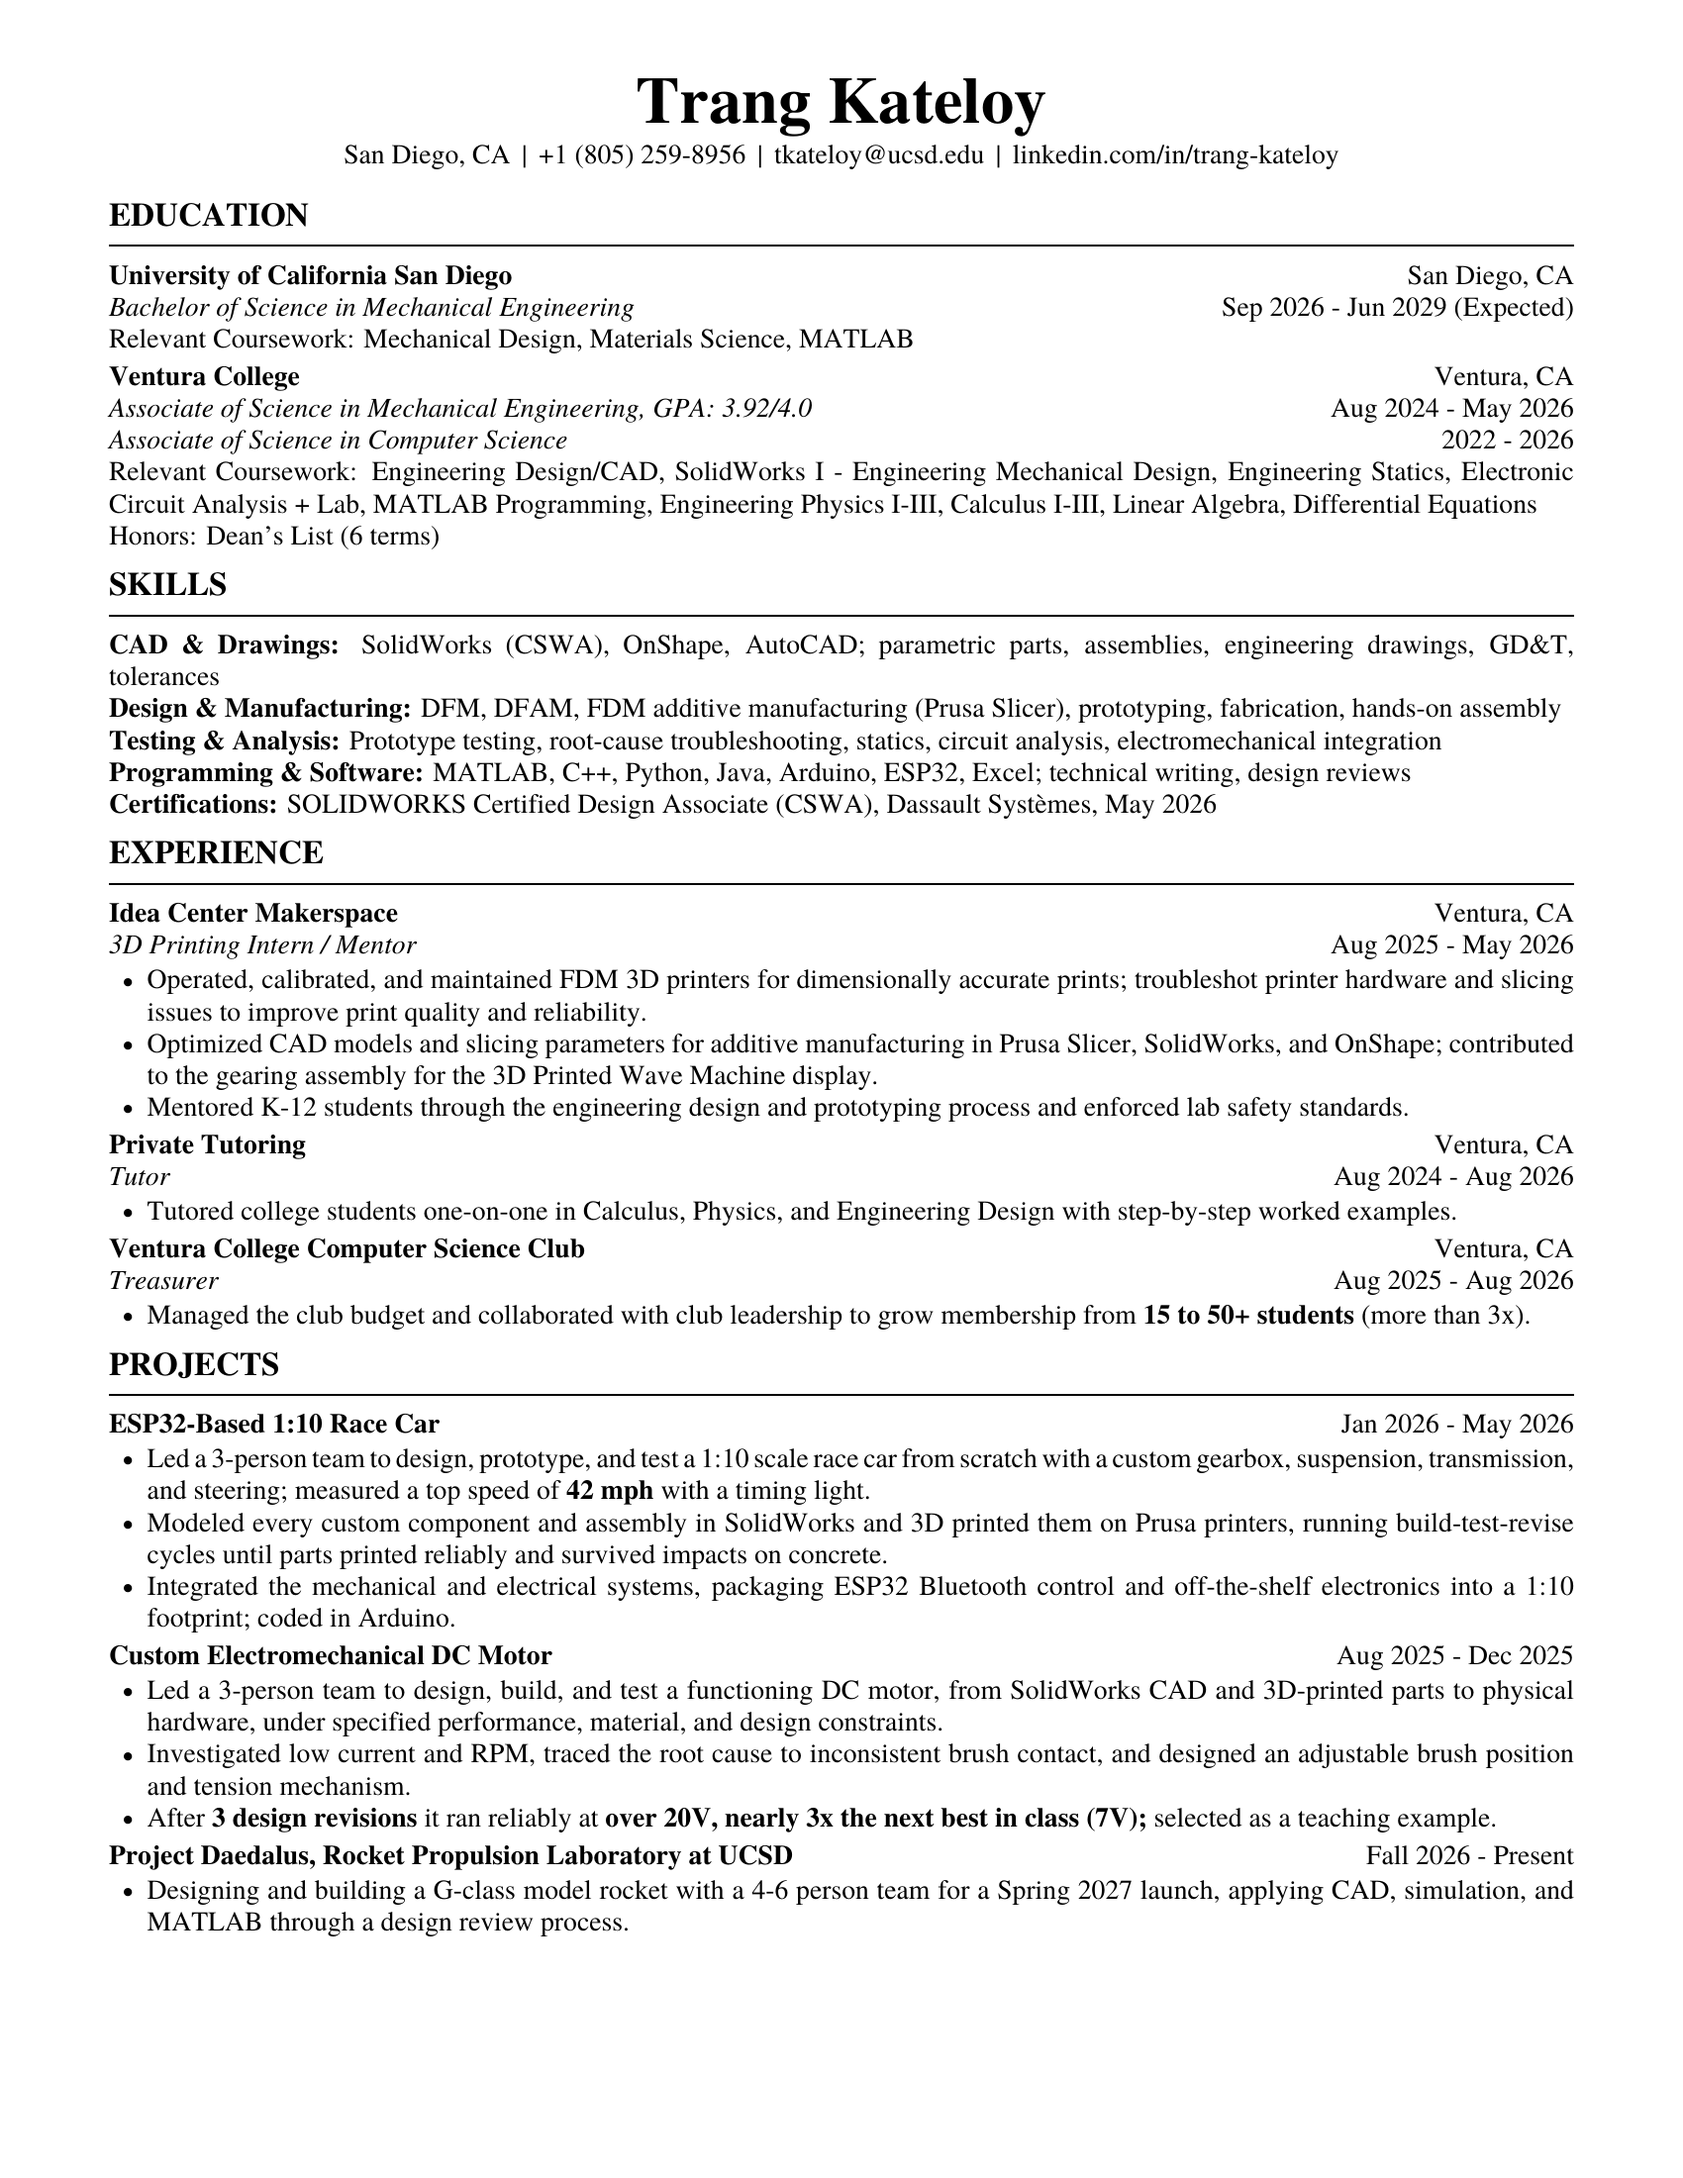
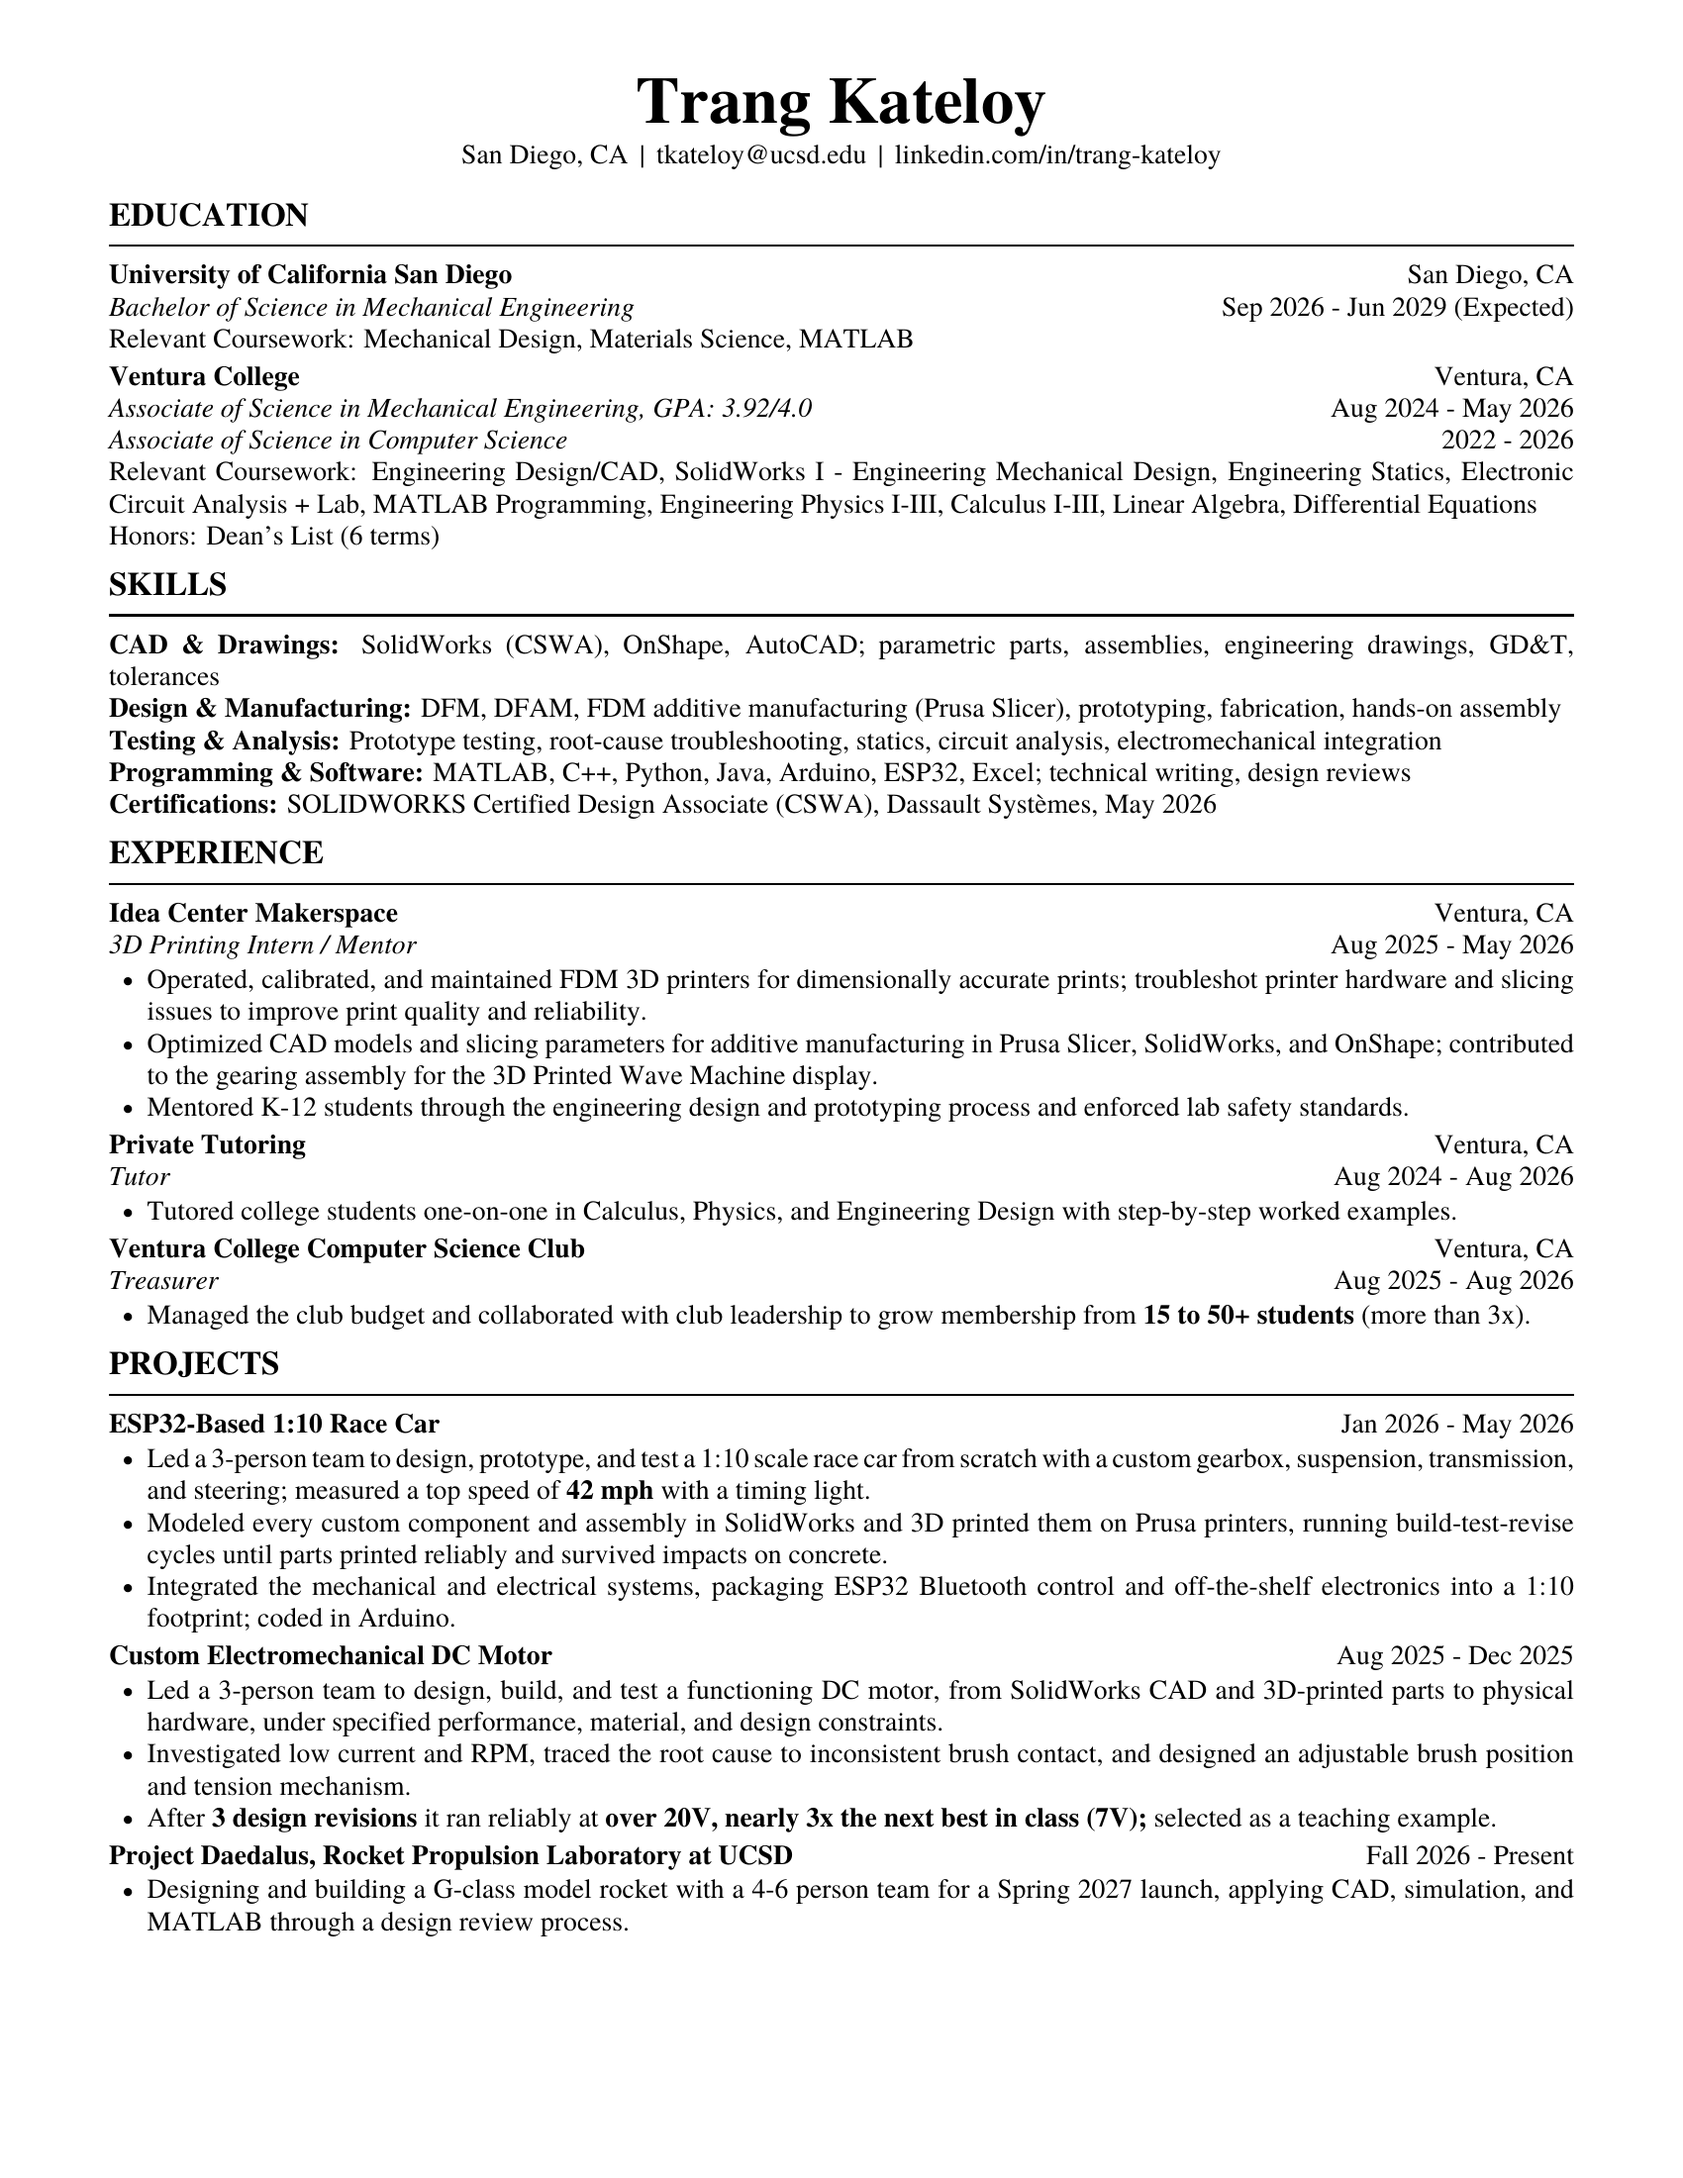
Restyle Projects page, add headshot, update resume, rename Idea Center title
Claude-Session: https://claude.ai/code/session_01QjktX3wbWP8uaMtqN2z6GR

Changed region(s): [[0.2494, 0.0618, 0.7794, 0.0927], [0.0935, 0.8655, 0.1247, 0.8964]]

diff --git a/_pages/portfolio.html b/_pages/portfolio.html
@@ -1,6 +1,6 @@
 ---
 layout: archive
-title: "Portfolio"
+title: "Projects"
 permalink: /portfolio/
 author_profile: true
 ---

diff --git a/_portfolio/1-race-car.md b/_portfolio/1-race-car.md
@@ -1,26 +1,33 @@
 ---
-title: "ESP32 1:10 Scale Bluetooth Race Car"
-excerpt: "Led a 3-person team to design a 3D-printed 1:10 race car from scratch with a custom gearbox, suspension, transmission and steering. Top speed: 42 mph.<br/><img src='/images/rc-car-cad.jpg' width='500'>"
+title: "ESP32 - 1:10 Scale Bluetooth Race Car"
+excerpt: "A 3D-printed 1:10 race car designed from scratch with a custom gearbox, suspension, transmission and steering. Top speed: 42 mph <br/> (Ventura College, Physics final project, Spring 2026)"
 collection: portfolio
+share: false
+comments: false
 ---
 
-**Jan 2026 – May 2026** · SolidWorks · Prusa FDM printing · ESP32 · Arduino
+I led a 3-person team that designed, prototyped and tested a 1:10 scale race car from scratch. The goal was a low-cost, easy-to-build Bluetooth RC chassis for hobbyists that met set material and performance limits. It reached a top speed of **42 mph**, measured with a timing light.
 
 ![Full race car assembly in SolidWorks](/images/rc-car-cad.jpg)
 
-## Goal
-Design a low-cost, easy-to-build 1:10 scale Bluetooth RC car chassis for hobbyists that meets set material and performance limits.
+Design
+======
+I modeled every custom part and assembly in SolidWorks, including the **gearbox, suspension, transmission and steering**. The parts were 3D printed on Prusa printers, and I used design-for-additive-manufacturing choices so they would print reliably and work with off-the-shelf parts.
 
-## Challenges
+![Gearbox section view](/images/rc-car-gearbox.jpg)
+
+Challenges
+======
 - Making the parts print reliably
 - Long-term durability
 - Compatibility with off-the-shelf parts
 
-## Solution & Results
-- Led a **3-person team** that designed the car from scratch, including a **custom gearbox, suspension, transmission and steering**
-- Modeled every custom part and assembly in SolidWorks and printed them on Prusa printers. We kept building, testing and revising until the parts **printed reliably and survived impacts on concrete**
-- Fit ESP32 Bluetooth control and off-the-shelf electronics into the 1:10 footprint, with the code written in Arduino
-- Measured a **top speed of 42 mph** with a timing light
-- Served as the live demo for my Physics final project. I've since refined it so it's more consistent and easier to build
+Build, Test, Revise
+======
+We repeated build-test-revise cycles until the parts **printed reliably and survived impacts on concrete**, with the suspension, transmission and steering still moving freely. I fit ESP32 Bluetooth control and off-the-shelf electronics into the 1:10 footprint, with the code written in Arduino.
 
-<img src="/images/rc-car-gearbox.jpg" alt="Gearbox section view" width="49%"> <img src="/images/rc-car-build.jpg" alt="Assembled car with electronics" width="49%">
+![Assembled car with electronics](/images/rc-car-build.jpg){: width="60%"}
+
+Results
+======
+The car served as the live demo for my Physics final project. Since then I've refined it so it's more consistent and easier to build.

diff --git a/_portfolio/2-dc-motor.md b/_portfolio/2-dc-motor.md
@@ -1,25 +1,27 @@
 ---
-title: "Custom Electromechanical DC Motor"
-excerpt: "Designed a DC motor from scratch in CAD. After 3 revisions it ran reliably at over 20 V, nearly 3× the next best in the class.<br/><img src='/images/dc-motor-build.jpg' width='300'>"
+title: "Electromechanical - Custom DC Motor"
+excerpt: "A DC motor designed in SolidWorks and built from 3D-printed parts. It ran reliably at over 20 V, nearly 3× the next best in the class <br/> (Ventura College, Fall 2025)"
 collection: portfolio
+share: false
+comments: false
 ---
 
-**Aug 2025 – Dec 2025** · SolidWorks · 3D printing · Root-cause troubleshooting
+I led a 3-person team that designed, built and tested a working DC motor, from SolidWorks CAD and 3D-printed parts to physical hardware. The goal was to show an understanding of the physics, prototyping and design workflow while meeting set performance, material and design limits.
 
-<img src="/images/dc-motor-build.jpg" alt="Built DC motor" width="45%">
+<img src="/images/dc-motor-cad-1.jpg" alt="Motor CAD" width="49%"> <img src="/images/dc-motor-cad-2.jpg" alt="Brush mount CAD" width="49%">
 
-## Goal
-Design and prototype a working DC motor from CAD models and easy-to-find materials, showing an understanding of the physics, prototyping and design workflow.
-
-## Challenges
+Challenges
+======
 - Designing the armature and commutator
 - Inconsistent brush contact limited current and RPM
 - Limits on which materials we could use
 
-## Solution & Results
-- Led a **3-person team** from SolidWorks CAD and 3D-printed parts to working hardware, within the required performance, material and design limits
-- Traced low current and RPM to **inconsistent brush contact**, then designed an **adjustable brush position and tension mechanism** that kept the brushes in steady contact with the commutator
-- After **3 design revisions**, it ran reliably at **over 20 V**, nearly **3× the next best in the class (7 V)**
-- Selected as a **teaching example** for future classes
+Finding the Problem
+======
+Early versions drew low current and spun slowly. I traced the root cause to **inconsistent brush contact** with the commutator. To fix it, I designed an **adjustable brush position and tension mechanism** that kept the brushes in steady contact, which allowed higher current and RPM.
 
-<img src="/images/dc-motor-cad-1.jpg" alt="Motor CAD" width="49%"> <img src="/images/dc-motor-cad-2.jpg" alt="Brush mount CAD" width="49%">
+![Built DC motor](/images/dc-motor-build.jpg){: width="50%"}
+
+Results
+======
+After **3 design revisions**, the motor ran reliably at **over 20 V**, nearly **3× the next best in the class (7 V)**. It was selected as a **teaching example** for future classes.

diff --git a/_portfolio/4-mae3-robot.md b/_portfolio/4-mae3-robot.md
@@ -1,19 +1,21 @@
 ---
-title: "Tennis Ball Robot (MAE 3, In Progress)"
-excerpt: "Team robot with a tilting truck-style bed that guides tennis balls into holes. I led the drive module analysis."
+title: "MAE 3 Class - Tennis Ball Robot"
+excerpt: "A team robot with a tilting truck-style bed that guides tennis balls into holes. I led the drive module analysis <br/> (UCSD MAE 3 Introduction to Engineering Graphics & Design, Fall 2026, in progress)"
 collection: portfolio
+share: false
+comments: false
 ---
 
-<!-- ![Robot](/images/robot.jpg) -->
+For UCSD's MAE 3 (Fall 2026), I'm on a three-person team designing a robot that delivers tennis balls into target holes.
 
-## Goal
-As part of a three-person team, design a robot that delivers tennis balls into target holes.
+Concept
+======
+Our robot has a truck-style bed that **raises, lowers and tilts** using a spring-assisted jack and a geared motor. It drives with differential steering.
 
-## Challenges
-_[Add, e.g. balancing drive speed against control]_
+My Role
+======
+I'm responsible for the **drive module analysis**, optimizing for the robot's speed.
 
-## Solution & Results
-- Team concept: a truck-style bed that **raises, lowers and tilts** using a spring-assisted jack and geared motor
-- Differential steering
-- **My role:** drive module analysis, optimizing for robot speed
-- _[Add final results]_
+Results
+======
+_Coming at the end of the quarter._

diff --git a/_portfolio/3-project-daedalus.md b/_portfolio/3-project-daedalus.md
@@ -1,17 +1,17 @@
 ---
-title: "Project Daedalus: G-Class Rocket (In Progress)"
-excerpt: "Designing and building a G-class model rocket with a 4–6 person team at UCSD's Rocket Propulsion Lab, launching Spring 2027."
+title: "Rocket Propulsion Lab at UCSD - Project Daedalus"
+excerpt: "Designing and building a G-class model rocket with a 4–6 person team for a Spring 2027 launch <br/> (UCSD Rocket Propulsion Laboratory, Fall 2026 – Present)"
 collection: portfolio
+share: false
+comments: false
 ---
 
-**Fall 2026 – Present** · Rocket Propulsion Laboratory at UCSD · CAD · Simulation · MATLAB
+At UC San Diego's Rocket Propulsion Laboratory (RPL), I'm on Project Daedalus, a 4–6 person team designing and building a G-class model rocket for a **Spring 2027 launch**.
 
-## Goal
-Design, build and launch a G-class model rocket with a 4–6 person team, aiming for a **Spring 2027 launch**.
+Approach
+======
+We're using CAD, simulation and MATLAB, with design reviews at each stage. The rocket has a 38 mm motor mount and flies an **AeroTech G80T-7** motor.
 
-## Approach
-- Using CAD, simulation and MATLAB, with design reviews at each stage
-- 38 mm motor mount, flying an **AeroTech G80T-7** motor
-
-## Results
+Results
+======
 _Coming after launch: photos, flight data and lessons learned._

diff --git a/_portfolio/5-cswa.md b/_portfolio/5-cswa.md
@@ -1,14 +1,17 @@
 ---
-title: "SOLIDWORKS CSWA Certification"
-excerpt: "Certified SOLIDWORKS Associate (Dassault Systèmes), earned May 2026 by passing a timed, proctored exam.<br/><img src='/images/cswa-certificate.jpg' width='300'>"
+title: "Certification - SOLIDWORKS CSWA"
+excerpt: "Certified SOLIDWORKS Associate, earned by passing a timed, proctored exam <br/> (Dassault Systèmes, May 2026)"
 collection: portfolio
+share: false
+comments: false
 ---
-
-![CSWA certificate](/images/cswa-certificate.jpg)
 
 I earned this certification during my second CAD course by passing a **timed, proctored exam** given by Dassault Systèmes, the company behind SOLIDWORKS. The exam covers parametric part modeling, assemblies and reading drawings, all under time pressure. It's industry-recognized proof that I can build accurate models quickly.
 
-The course went well beyond the exam:
+![CSWA certificate](/images/cswa-certificate.jpg){: width="70%"}
+
+What the Course Covered
+======
 - Design intent, parametric modeling and fully constrained sketches
 - Feature-based modeling: extrudes, revolves, sweeps, lofts, fillets and patterns
 - Mate-based assemblies, configurations and interference checks

diff --git a/_pages/cv.md b/_pages/cv.md
@@ -24,7 +24,7 @@ Education
 
 Experience
 ======
-* **3D Printing Intern / Mentor**, Idea Center Makerspace, Ventura, CA, Aug 2025 – May 2026
+* **3D Printing Intern**, Idea Center Makerspace, Ventura, CA, Aug 2025 – May 2026
   * Ran, calibrated and maintained FDM 3D printers for dimensionally accurate prints, and fixed hardware and slicing problems to make prints better and more reliable
   * Tuned CAD models and slicer settings for 3D printing in Prusa Slicer, SolidWorks and OnShape, and worked on the gearing assembly for the 3D Printed Wave Machine display
   * Mentored K-12 students through the engineering design and prototyping process and enforced lab safety rules

diff --git a/_pages/about.md b/_pages/about.md
@@ -12,7 +12,7 @@ Hi, I'm Trang (TK) Kateloy, a Mechanical Engineering student at UC San Diego. I 
 Some highlights:
 - Led a team that designed a **3D-printed 1:10 race car** from scratch, which reached **42 mph**
 - Built a **custom DC motor** that ran at **over 20 V**, nearly 3× the next best in my class
-- **3D Printing Intern / Mentor** at the Idea Center Makerspace
+- **3D Printing Intern** at the Idea Center Makerspace
 - **SOLIDWORKS CSWA** certified
 - Currently building a G-class rocket with **Project Daedalus** at UCSD's Rocket Propulsion Lab
 
